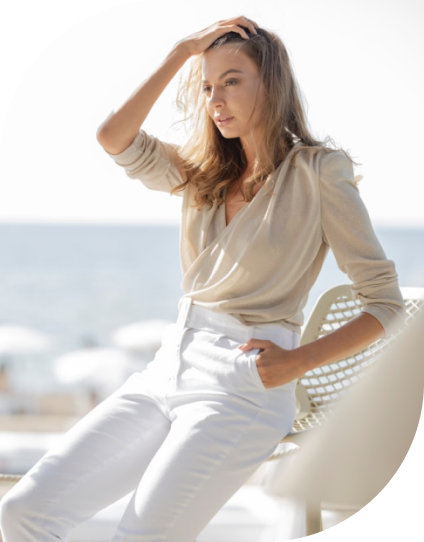
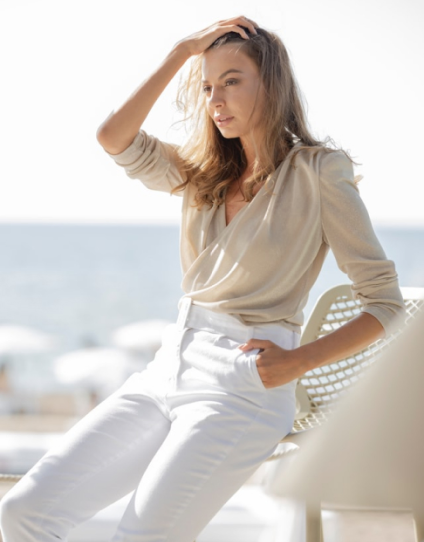
Add files via upload

Changed region(s): [[0.6745, 0.738, 1.0, 1.0]]

diff --git a/lesson_6/css/style.css b/lesson_6/css/style.css
@@ -197,11 +197,16 @@ body {
 .сollections-image {
 	display: inline-block;
 	vertical-align: middle;
-	padding-left: 98px;
+	margin-left: 116px;
+	border: 2px solid #aaaaaa;
+	border-radius: 160px 0 160px 0;
+	max-width: 424px;
 }
 
 .сollections-image img {
 	width: 100%;
+	border-radius: 160px 0 160px 0;
+	margin: -20px 18px 20px -18px;
 }
 
 /* блок subjects */

diff --git a/lesson_6/index.html b/lesson_6/index.html
@@ -132,7 +132,7 @@
 				</div>
 
 				<div class="сollections-image">
-					<img src="img/image-product.png" alt="a young woman in white pants and a blouse">
+					<img src="img/girl.png" alt="a young woman in white pants and a blouse">
 				</div>
 			</div>
 		</section>
